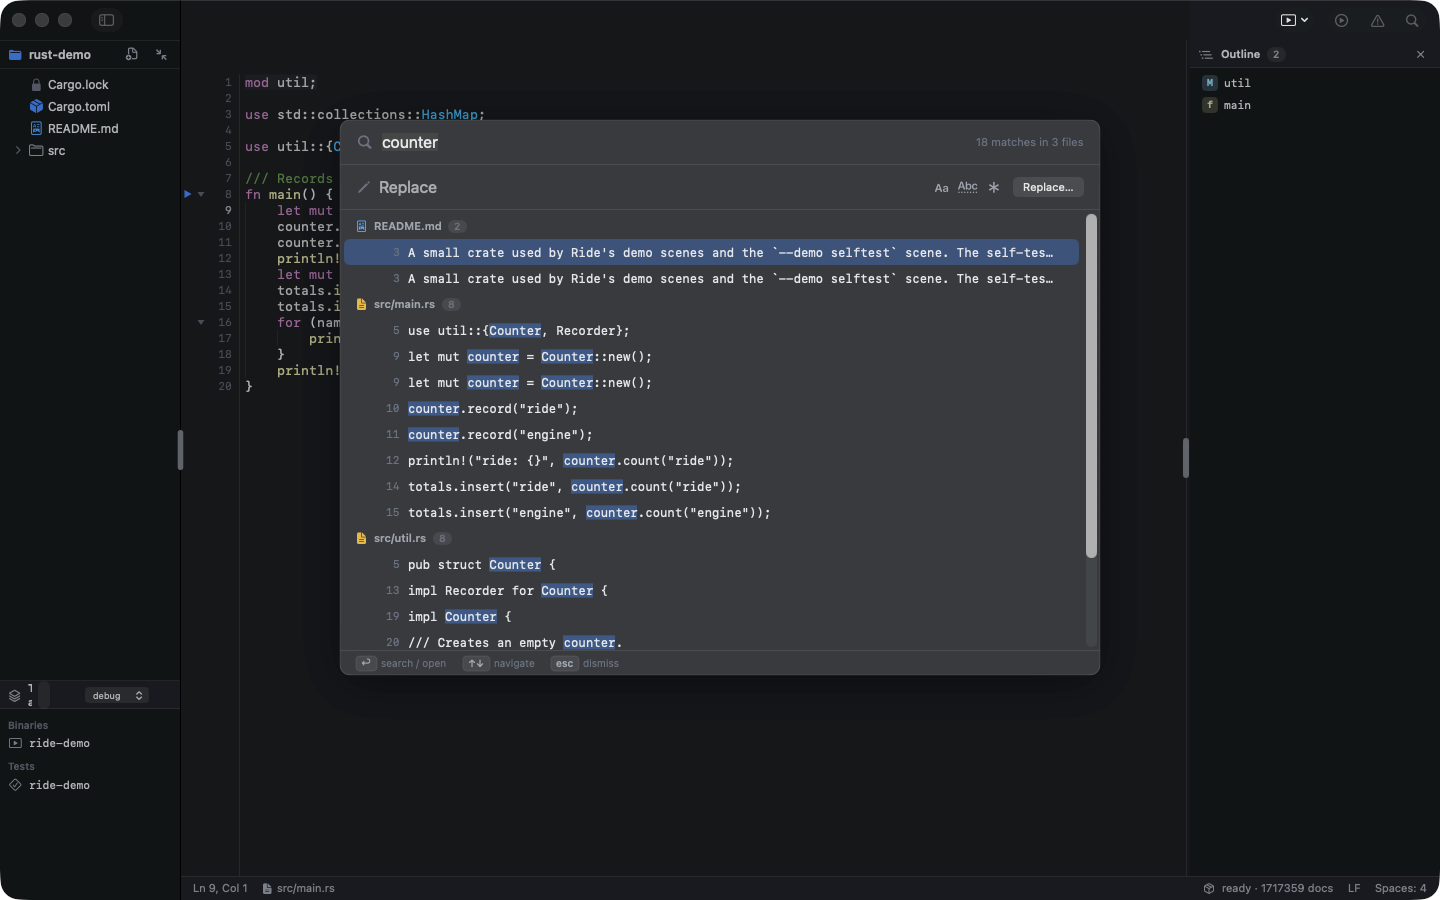
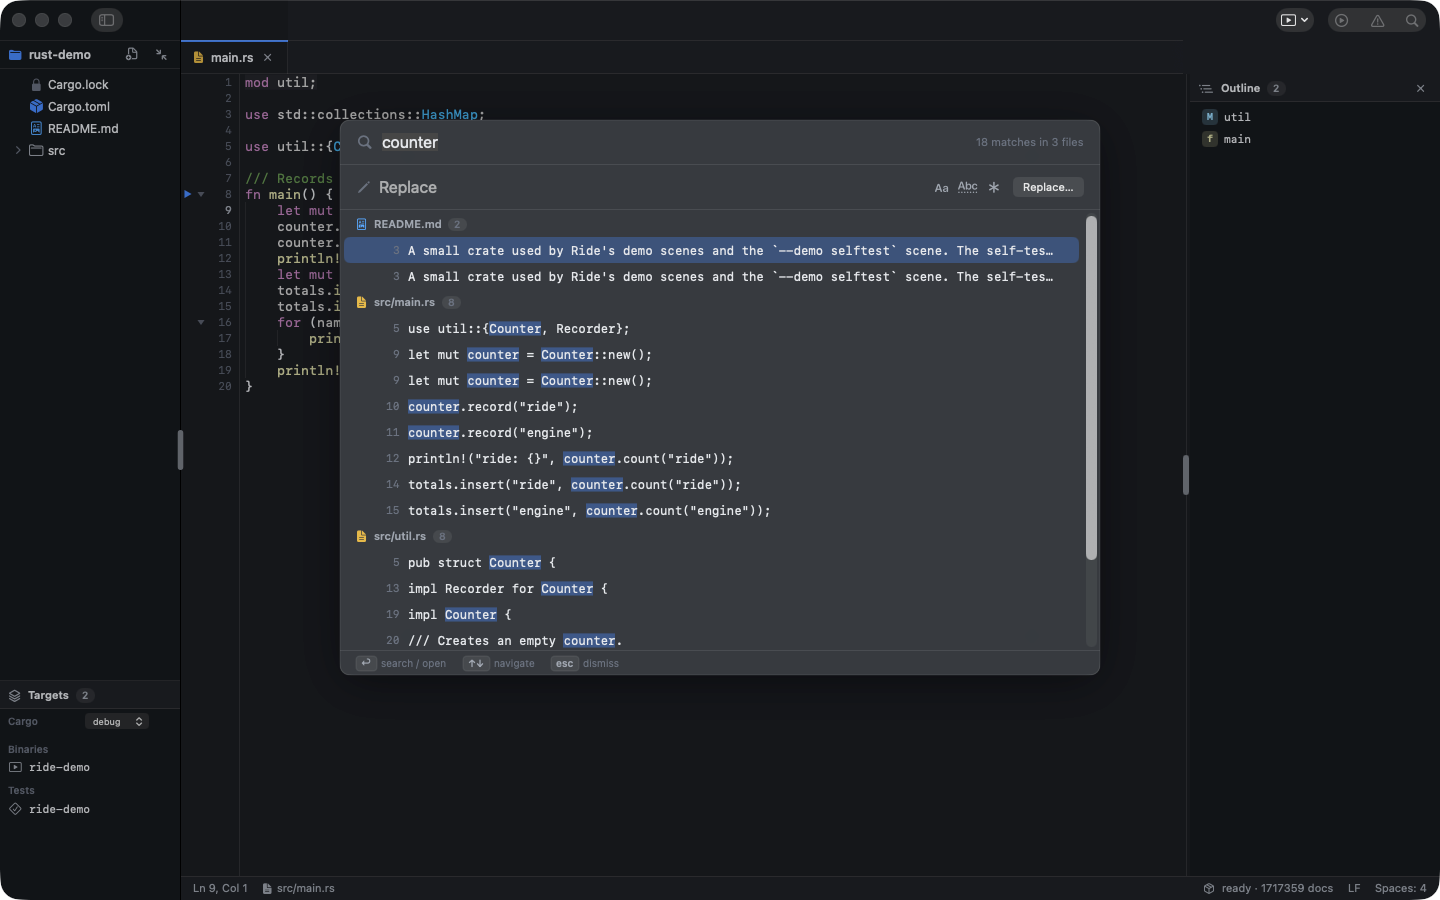
fix(app): tab strips render again, one per pane above the split view; demo-mode overlay panels stay at window level so scene captures never float over other apps
The tab strip moved into the pane column with the pane registry, inside the bottom VSplitView, where its horizontal ScrollView was placed at the hosting view's origin and never drawn. PaneTabStrips sits above the split view again, sized per pane from the split ratio. Screenshots regenerated.

Claude-Session: https://claude.ai/code/session_01K9VB7zEwXwe9APUMQWcZhv

diff --git a/app/Ride/Editor/PaneTabStrips.swift b/app/Ride/Editor/PaneTabStrips.swift
@@ -1,0 +1,41 @@
+import SwiftUI
+
+struct PaneTabStrips: View {
+    @EnvironmentObject private var state: AppState
+    @ObservedObject private var ts = ThemeStore.shared
+
+    var body: some View {
+        GeometryReader { geo in
+            let editorWidth = max(0, geo.size.width - sidePanelsWidth)
+            HStack(spacing: 0) {
+                ForEach(state.paneLayout.panes) { pane in
+                    TabStrip(pane: pane)
+                        .frame(width: width(of: pane, editorWidth: editorWidth))
+                }
+                Spacer(minLength: 0)
+            }
+        }
+        .frame(height: Tokens.Size.tab)
+        .background(ts.ui.bgRaised)
+    }
+
+    private var sidePanelsWidth: CGFloat {
+        var width: CGFloat = 0
+        if state.previewVisible {
+            width += state.prefs.previewWidth + SplitHandle.width
+        }
+        if state.prefs.outlinePanel {
+            width += state.prefs.outlineWidth + SplitHandle.width
+        }
+        return width
+    }
+
+    private func width(of pane: Pane, editorWidth: CGFloat) -> CGFloat {
+        let panes = state.paneLayout.panes
+        guard panes.count >= 2 else {
+            return editorWidth
+        }
+        let ratio = state.splitLayout.ratio
+        return pane.id == panes[0].id ? editorWidth * ratio : editorWidth * (1 - ratio)
+    }
+}

diff --git a/app/Ride/Editor/TabStrip.swift b/app/Ride/Editor/TabStrip.swift
@@ -8,18 +8,19 @@ struct TabStrip: View {
     @ObservedObject private var ts = ThemeStore.shared
 
     var body: some View {
-        ScrollView(.horizontal, showsIndicators: false) {
-            HStack(spacing: 0) {
-                ForEach(pane.tabs.compactMap(state.buffer)) { buffer in
-                    TabItem(buffer: buffer, selected: buffer.id == pane.activeID, paneID: pane.id)
-                        .onDrag { TabPasteboard.provider(buffer.id) }
+        ZStack(alignment: .leading) {
+            ts.ui.bgRaised
+            ScrollView(.horizontal, showsIndicators: false) {
+                HStack(spacing: 0) {
+                    ForEach(pane.tabs.compactMap(state.buffer)) { buffer in
+                        TabItem(buffer: buffer, selected: buffer.id == pane.activeID, paneID: pane.id)
+                            .onDrag { TabPasteboard.provider(buffer.id) }
+                    }
                 }
             }
-            .frame(maxWidth: .infinity, maxHeight: .infinity, alignment: .leading)
         }
         .frame(height: Tokens.Size.tab)
         .frame(maxWidth: .infinity)
-        .background(ts.ui.bgRaised)
         .overlay(alignment: .trailing) {
             LinearGradient(colors: [ts.ui.bgRaised.opacity(0), ts.ui.bgRaised], startPoint: .leading, endPoint: .trailing)
                 .frame(width: 20)

diff --git a/app/Ride/Editor/PeekPanel.swift b/app/Ride/Editor/PeekPanel.swift
@@ -23,7 +23,7 @@ final class PeekPanel {
         panel.isFloatingPanel = true
         panel.hidesOnDeactivate = !DemoLaunch.isDemo
         panel.becomesKeyOnlyIfNeeded = true
-        panel.level = .popUpMenu
+        panel.level = DemoLaunch.isDemo ? .normal : .popUpMenu
         panel.hasShadow = true
         panel.isOpaque = false
         panel.backgroundColor = .clear

diff --git a/app/Ride/Editor/DocPanel.swift b/app/Ride/Editor/DocPanel.swift
@@ -20,7 +20,7 @@ final class DocPanel {
         panel.isFloatingPanel = true
         panel.hidesOnDeactivate = !DemoLaunch.isDemo
         panel.becomesKeyOnlyIfNeeded = true
-        panel.level = .popUpMenu
+        panel.level = DemoLaunch.isDemo ? .normal : .popUpMenu
         panel.hasShadow = true
         panel.isOpaque = false
         panel.backgroundColor = .clear

diff --git a/app/Ride/Design/OverlayPanel.swift b/app/Ride/Design/OverlayPanel.swift
@@ -13,7 +13,7 @@ enum OverlayPanel {
         panel.isFloatingPanel = true
         panel.hidesOnDeactivate = !DemoLaunch.isDemo
         panel.becomesKeyOnlyIfNeeded = true
-        panel.level = .popUpMenu
+        panel.level = DemoLaunch.isDemo ? .normal : .popUpMenu
         panel.hasShadow = true
         panel.backgroundColor = .clear
         panel.isOpaque = false

diff --git a/app/Ride/RootView.swift b/app/Ride/RootView.swift
@@ -72,6 +72,7 @@ struct DetailColumn: View {
 
     var body: some View {
         VStack(spacing: 0) {
+            PaneTabStrips()
             if let notice = state.notice {
                 NoticeBar(text: notice, actionTitle: state.noticeAction?.title, action: state.noticeAction?.run) {
                     state.notice = nil

diff --git a/app/Ride/Editor/EditorPane.swift b/app/Ride/Editor/EditorPane.swift
@@ -165,7 +165,6 @@ struct PaneColumn: View {
 
     var body: some View {
         VStack(spacing: 0) {
-            TabStrip(pane: pane)
             if focused, state.showFind {
                 FindBar()
             }
